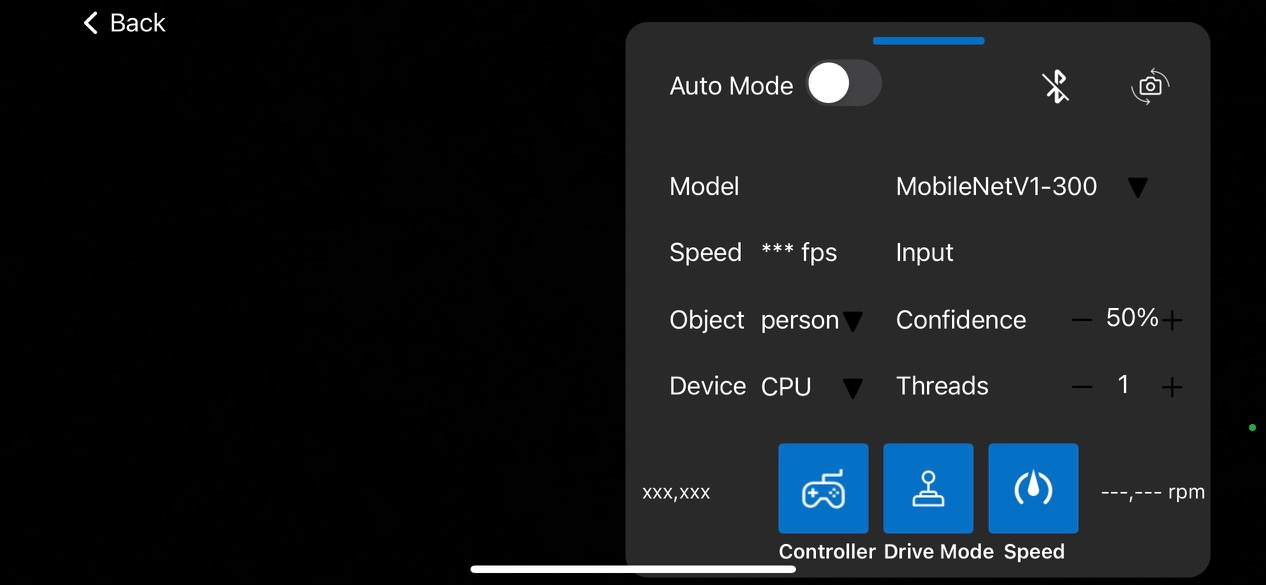
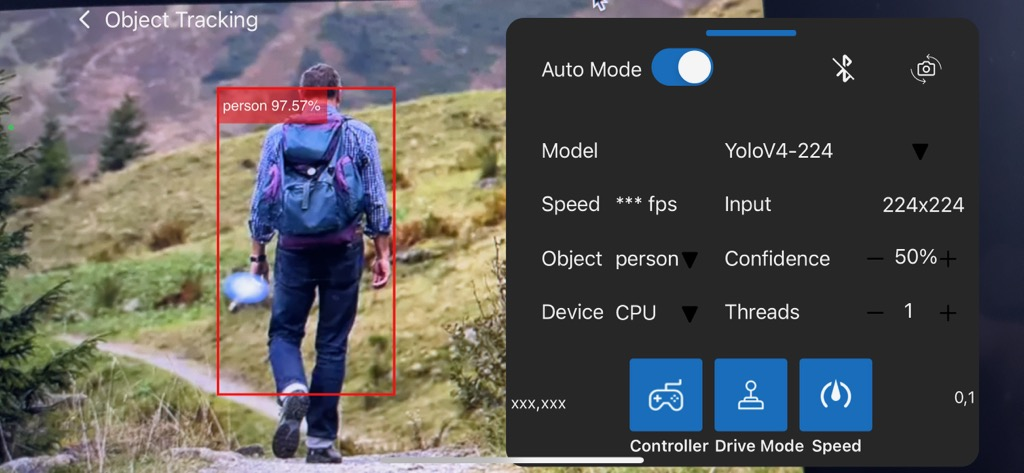
updating object tracking directions as well as camera feed to high

diff --git a/ios/OpenBot/OpenBot/Controllers/ObjectTracking/ObjectTrackingFragment.swift b/ios/OpenBot/OpenBot/Controllers/ObjectTracking/ObjectTrackingFragment.swift
@@ -118,7 +118,7 @@ class ObjectTrackingFragment: CameraController {
                             if (res!.count > 0) {
                                 for item in res! {
                                     if (item.getConfidence() * 100 > MINIMUM_CONFIDENCE_TF_OD_API) {
-                                        let frame = addFrame(item: item, color: Constants.frameColors[i % 5], size: CGSize(width: originalWidth, height: originalHeight));
+                                        let frame = addFrame(item: item, color: Constants.frameColors[i % 5]);
                                         frames.append(frame);
                                         cameraView.addSubview(frame);
                                         i += 1;
@@ -181,12 +181,14 @@ class ObjectTrackingFragment: CameraController {
     }
 
     func updateTarget(_ detection: CGRect) -> Control {
-        let dx: CGFloat = originalWidth / CGFloat(detector!.getImageSizeX());
-        let dy: CGFloat = originalHeight / CGFloat(detector!.getImageSizeY());
+        let screenWidth  = UIScreen.main.bounds.size.width
+        let screenHeight = UIScreen.main.bounds.size.height
+        let dx: CGFloat = screenWidth / CGFloat(detector!.getImageSizeX());
+        let dy: CGFloat = screenHeight / CGFloat(detector!.getImageSizeY());
         let location = detection.applying(CGAffineTransform(scaleX: dx, y: dy))
         var centerX: Float = Float(location.midX);
-        centerX = max(0, min(centerX, Float(originalWidth)));
-        let x_pos_norm: Float = 1.0 - 2.0 * centerX / Float(originalWidth);
+        centerX = max(0, min(centerX, Float(screenWidth)));
+        let x_pos_norm: Float = 1.0 - 2.0 * centerX / Float(screenWidth);
         var left: Float = 0.0;
         var right: Float = 0.0;
         if (x_pos_norm < 0.0) {
@@ -199,11 +201,13 @@ class ObjectTrackingFragment: CameraController {
         return Control(left: left, right: right)
     }
 
-    func addFrame(item: Detector.Recognition, color: UIColor, size: CGSize) -> UIView {
+    func addFrame(item: Detector.Recognition, color: UIColor) -> UIView {
         let frame = UIView()
+        let screenWidth  = UIScreen.main.bounds.size.width
+        let screenHeight = UIScreen.main.bounds.size.height
         let detection = item.getLocation();
-        let dx = size.width / CGFloat(detector!.getImageSizeX());
-        let dy = size.height / CGFloat(detector!.getImageSizeY());
+        let dx = screenWidth / CGFloat(detector!.getImageSizeX());
+        let dy = screenHeight / CGFloat(detector!.getImageSizeY());
         let rect = detection.applying(CGAffineTransform(scaleX: dx, y: dy))
 
         frame.frame = rect;

diff --git a/ios/OpenBot/OpenBot/Data/CameraController.swift b/ios/OpenBot/OpenBot/Data/CameraController.swift
@@ -89,7 +89,7 @@ class CameraController: UIViewController, AVCapturePhotoCaptureDelegate {
      */
     func initializeCamera() {
         captureSession = AVCaptureSession()
-        captureSession.sessionPreset = .medium
+        captureSession.sessionPreset = .high
         guard let backCamera = AVCaptureDevice.default(for: AVMediaType.video)
         else {
             print("Unable to access back camera!")
@@ -140,9 +140,9 @@ class CameraController: UIViewController, AVCapturePhotoCaptureDelegate {
         let resolution = notification?.object as! Resolutions
         switch resolution {
         case .low:
-            captureSession.sessionPreset = .iFrame960x540
+            captureSession.sessionPreset = .low
         case .medium:
-            captureSession.sessionPreset = .hd1280x720
+            captureSession.sessionPreset = .medium
         case .high:
             captureSession.sessionPreset = .high
         }

diff --git a/ios/OpenBot/README.md b/ios/OpenBot/README.md
@@ -20,7 +20,7 @@ The app starts with a menu screen that shows all available screens. The Bluetoot
 
 #### Bluetooth Connection
 
-Unlike the Android app which connects to the microcontroller using USB, iOS app uses Bluetooth. On Opening bluetooth screen, you can see a list of all the available devices to connect over bluetooth. You can choose your OpenBot microcontroller and connect to it. The default baud rate is 115200, and you should not need to change this unless you mess with the microcontroller firmware. The app will attempt to connect automatically, but in case you encounter issues, you can use this switch to manually disconnect / connect.
+Unlike the Android app which connects to the microcontroller using USB, iOS app only uses Bluetooth. On Opening bluetooth screen, you can see a list of all the available devices to connect over bluetooth. You can choose your OpenBot microcontroller and connect to it. The default baud rate is 115200, and you should not need to change this unless you mess with the microcontroller firmware. The app will attempt to connect automatically, but in case you encounter issues, you can use this switch to manually disconnect / connect.
 
 ### Free Roam
 
